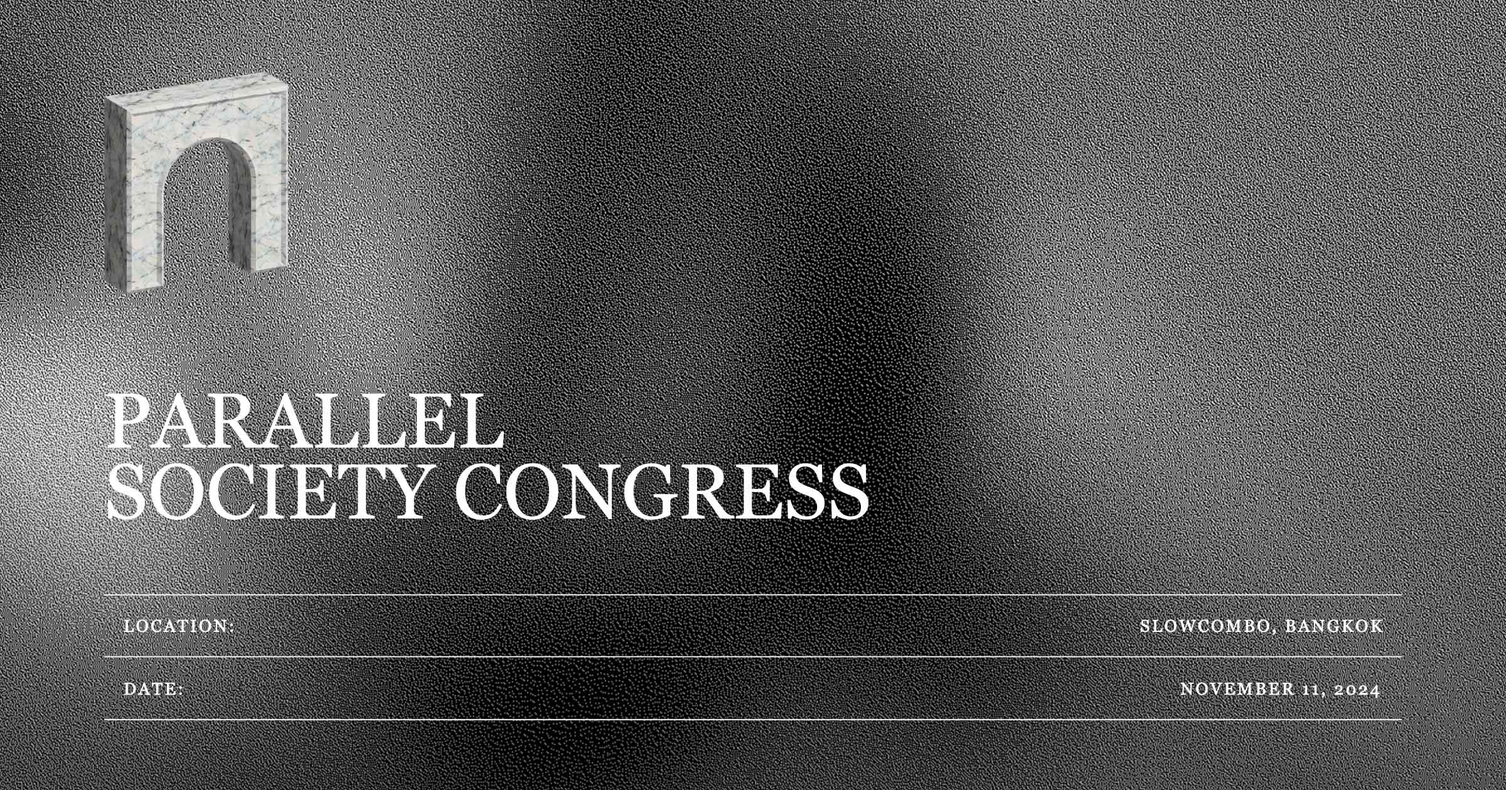
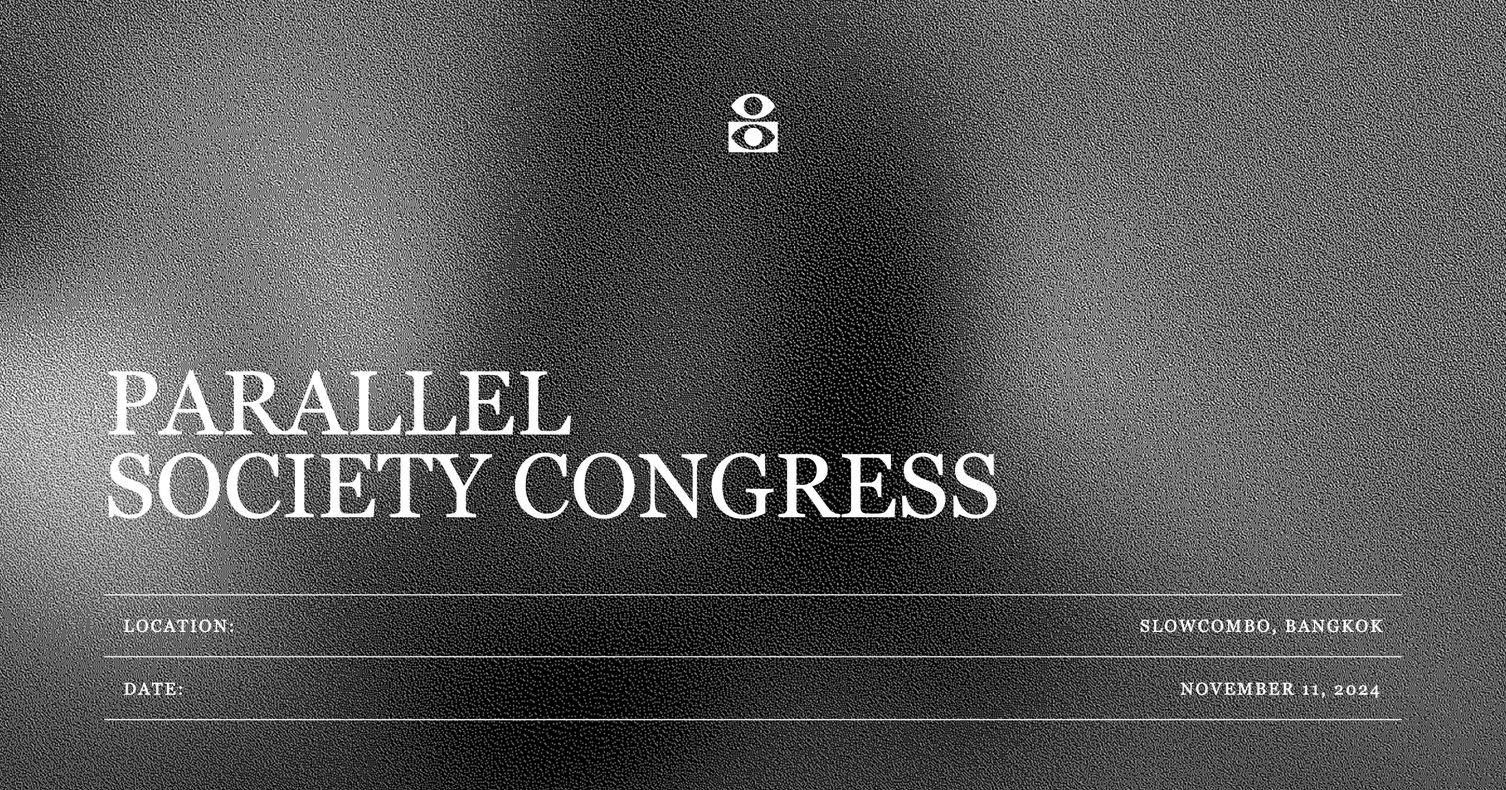
chore: update key visual and og image

Changed region(s): [[0.0625, 0.4643, 0.6875, 0.681], [0.0625, 0.0929, 0.2188, 0.3714], [0.4688, 0.1238, 0.5312, 0.2167]]

diff --git a/src/containers/Home/HomeContainer.tsx b/src/containers/Home/HomeContainer.tsx
@@ -8,12 +8,7 @@ const HomeContainer = () => {
   return (
     <FullPageBackground>
       <Container>
-        <HeroImage
-          src="/assets/key-visual.png"
-          width={217}
-          height={262}
-          alt="key-visual"
-        />
+        <HeroImage src="/assets/logos.svg" alt="logos" />
         <Title>PARALLEL SOCIETY CONGRESS</Title>
         <StyledTable />
         <Info />
@@ -56,15 +51,13 @@ const Container = styled.div`
 `
 
 const HeroImage = styled.img`
-  @media screen and (max-width: 768px) {
-    width: 261px;
-    height: 314px;
-    margin: 0 auto;
-  }
+  margin: 0 auto;
+  width: 137px;
+  height: 149px;
 
-  @media screen and (max-width: 355px) {
-    width: 217px;
-    height: 262px;
+  @media screen and (max-width: 768px) {
+    width: 93px;
+    height: 96px;
   }
 `
 
@@ -74,7 +67,7 @@ const Title = styled.h1`
   font-weight: 400;
   line-height: 84px;
   max-width: 904px;
-  margin-top: 117px;
+  margin-top: 230px;
 
   @media screen and (max-width: 768px) {
     font-size: 58px;
@@ -82,7 +75,7 @@ const Title = styled.h1`
     font-weight: 400;
     line-height: normal;
 
-    margin-top: 34px;
+    margin-top: 100px;
   }
 `
 
